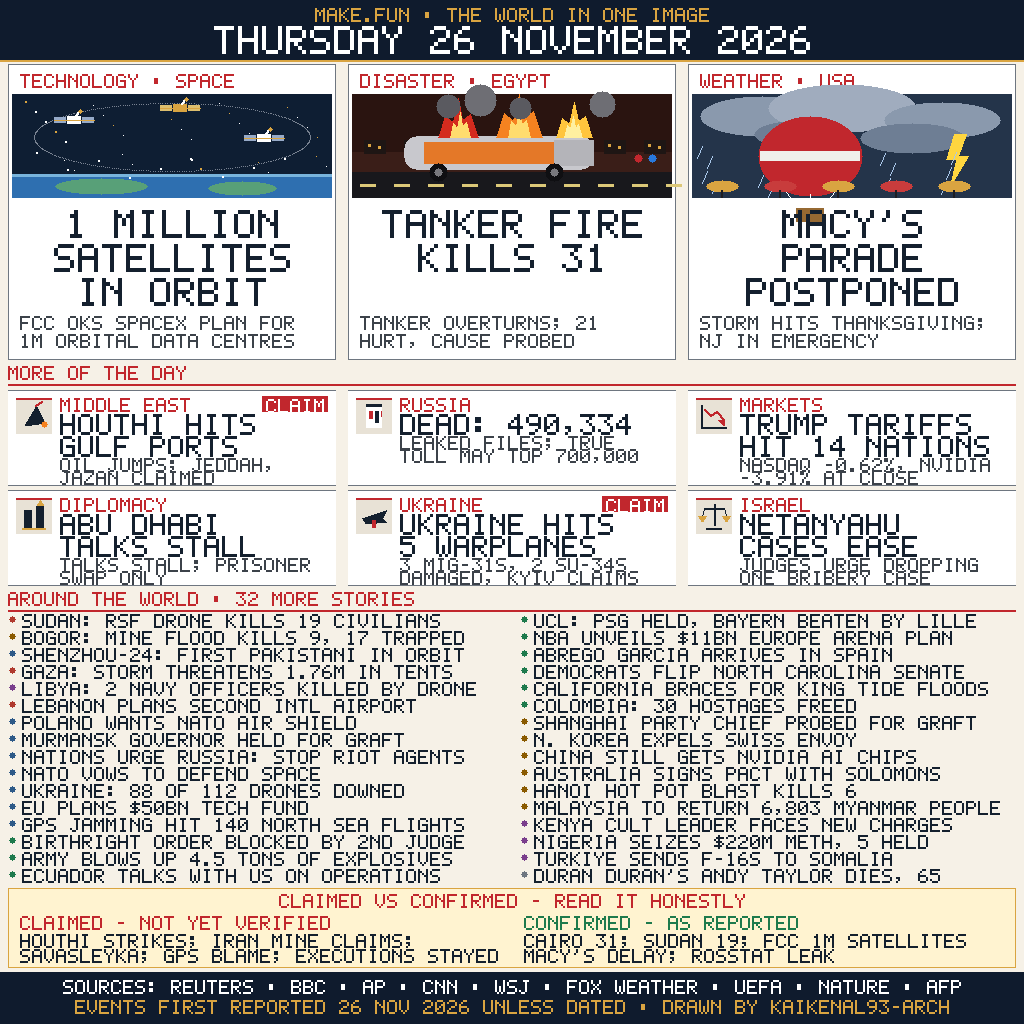
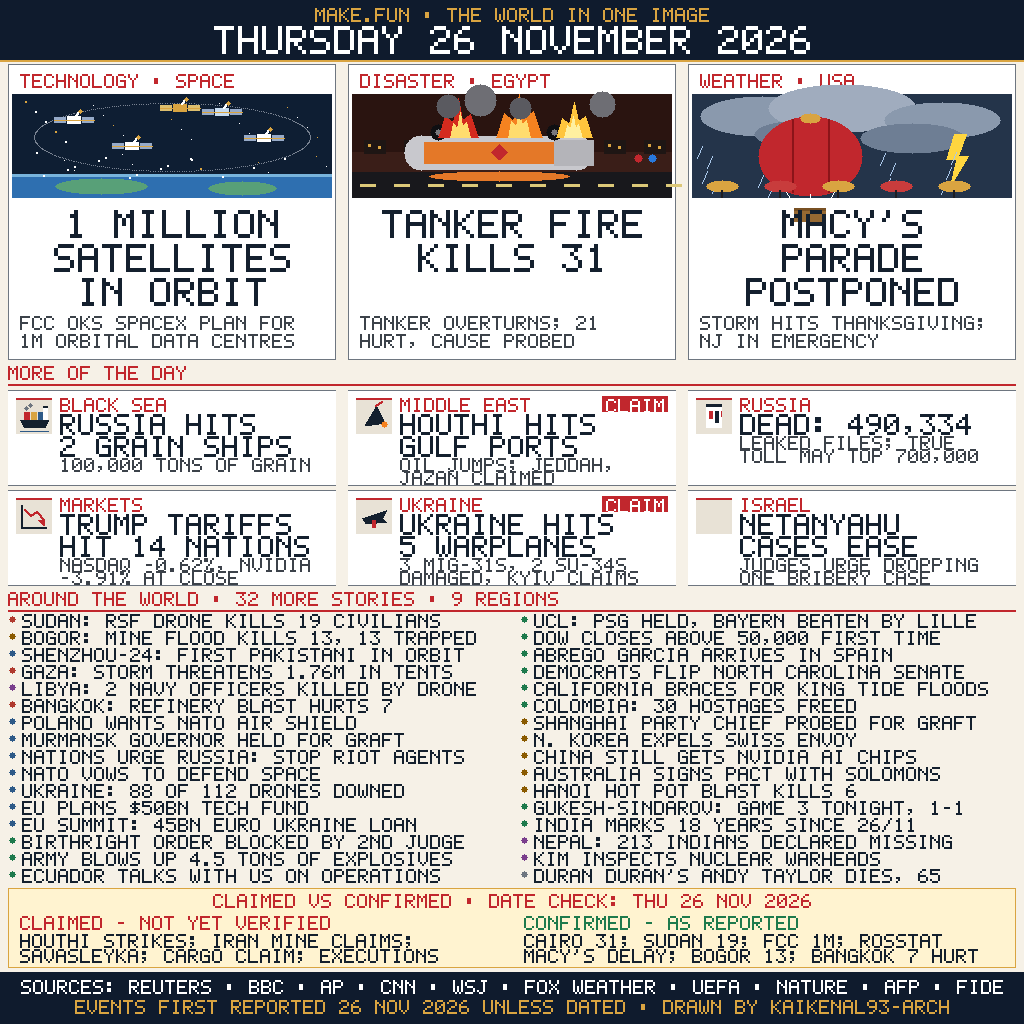
news-image-20261126 v2: evening stories, corrected numbers, redrawn hero scenes

diff --git a/main.ts b/main.ts
@@ -1,7 +1,10 @@
-// news-image-20261126 — "Sum up 26 November's world news in one image"
-// Written from scratch in this session. No network, no Date, no randomness:
-// every pixel is computed from fixed data, so two runs write identical bytes.
-// Node 22, standard library only (node:fs, node:zlib, node:crypto).
+// news-image-20261126 v2 — "Sum up 26 November's world news in one image"
+// v2 of the submitted v1 entry ("World in One Image", 96.42% provisional).
+// Evening stories added (Odesa grain ships, Bangkok refinery, mine toll 13),
+// a stale 9 Nov GPS story removed, hero scenes made more recognisable.
+// No network, no Date, no randomness: every pixel is computed from fixed
+// data, so two runs write identical bytes. Node 22, standard library only
+// (node:fs, node:zlib, node:crypto).
 import { writeFileSync, mkdirSync } from "node:fs";
 import { deflateSync } from "node:zlib";
 import { createHash } from "node:crypto";
@@ -350,12 +353,14 @@ function drawSpaceScene(x: number, y: number, w: number, h: number): void {
   // orbit ellipse
   ellipseOutline(x + Math.floor(w * 0.5), y + Math.floor(h * 0.42), 138, 34, GOLD);
   ellipseOutline(x + Math.floor(w * 0.5), y + Math.floor(h * 0.42), 138, 34, [120, 130, 145]);
-  // satellites on the orbit
+  // satellites on the orbit (five: a small constellation, one gold data-centre bird)
   drawSatellite(x + 62, y + 26, 1, WHITE, [150, 170, 200]);
   drawSatellite(x + 252, y + 44, 1, WHITE, [150, 170, 200]);
   drawSatellite(x + 168, y + 14, 1, GOLD, [220, 190, 110]);
+  drawSatellite(x + 120, y + 52, 1, WHITE, [150, 170, 200]);
+  drawSatellite(x + 210, y + 18, 1, [200, 220, 240], [150, 170, 200]);
   // small dots of a swarm
-  for (let i = 0; i < 9; i++) {
+  for (let i = 0; i < 14; i++) {
     const sx = x + 24 + ((i * 31) % (w - 48));
     const sy = y + 58 + ((i * 17) % 26);
     rect(sx, sy, 2, 2, WHITE);
@@ -390,16 +395,27 @@ function drawFireScene(x: number, y: number, w: number, h: number): void {
   // road
   rect(x, y + h - 26, w, 26, [24, 24, 28]);
   for (let i = 0; i < 10; i++) rect(x + 8 + i * 34, y + h - 14, 16, 3, [220, 200, 120]);
-  // tanker (overturned, on its side)
+  // tanker (overturned, on its side): capsule tank, hazard diamond, wheels
+  // sticking up from the top so it reads as flipped, fuel puddle below
   const tx = x + 52;
   const ty = y + h - 62;
-  roundRect(tx, ty, 190, 34, 12, [200, 200, 205]);
+  roundRect(tx, ty, 190, 34, 17, [200, 200, 205]);
   rect(tx + 20, ty + 6, 150, 22, [228, 120, 40]);
   rect(tx + 150, ty + 4, 40, 26, [180, 180, 185]);
-  fillCircle(tx + 34, ty + 36, 9, [15, 15, 18]);
-  fillCircle(tx + 150, ty + 36, 9, [15, 15, 18]);
-  fillCircle(tx + 34, ty + 36, 4, [120, 120, 125]);
-  fillCircle(tx + 150, ty + 36, 4, [120, 120, 125]);
+  fillPoly(
+    [
+      [tx + 95, ty + 8],
+      [tx + 103, ty + 16],
+      [tx + 95, ty + 24],
+      [tx + 87, ty + 16],
+    ],
+    RED,
+  );
+  fillCircle(tx + 34, ty - 4, 8, [15, 15, 18]);
+  fillCircle(tx + 150, ty - 4, 8, [15, 15, 18]);
+  fillCircle(tx + 34, ty - 4, 3, [120, 120, 125]);
+  fillCircle(tx + 150, ty - 4, 3, [120, 120, 125]);
+  fillEllipse(tx + 95, ty + 40, 70, 5, [228, 120, 40]);
   // flames: outer layer + smaller inner core so they read as fire, not hills
   // (all tops stay inside the 104px scene; tanker top is ty)
   drawFlame(tx + 34, ty - 38, 40, 40, [212, 43, 30]);
@@ -446,16 +462,20 @@ function drawStormScene(x: number, y: number, w: number, h: number): void {
     const ry = y + 52 + ((i * 29) % 40);
     line(rx, ry, rx - 5, ry + 12, [170, 200, 235], 1);
   }
-  // parade balloon (round, red, with a thin white belt)
+  // parade balloon: envelope with vertical panel seams (no horizontal belt,
+  // so it reads as a balloon, not a sign), gold cap, basket with a rim
   const bx = x + 118;
   const by = y + 62;
   fillEllipse(bx, by, 52, 40, RED);
-  rect(bx - 50, by - 5, 100, 10, [240, 240, 235]);
+  vline(bx - 18, by - 37, 74, [140, 20, 25], 2);
+  vline(bx + 18, by - 37, 74, [140, 20, 25], 2);
+  fillEllipse(bx, by - 38, 10, 5, GOLD);
   // balloon strings + basket
-  line(bx - 24, by + 36, bx - 12, by + 52, WHITE, 1);
-  line(bx + 24, by + 36, bx + 12, by + 52, WHITE, 1);
+  line(bx - 24, by + 36, bx - 14, by + 52, WHITE, 1);
+  line(bx + 24, by + 36, bx + 14, by + 52, WHITE, 1);
   line(bx, by + 38, bx, by + 52, WHITE, 1);
-  rect(bx - 14, by + 52, 28, 14, [150, 105, 50]);
+  rect(bx - 16, by + 52, 32, 14, [150, 105, 50]);
+  rect(bx - 16, by + 52, 32, 3, [120, 80, 35]);
   // small crowd umbrellas
   for (let i = 0; i < 5; i++) {
     const ux = x + 30 + i * 58;
@@ -526,28 +546,25 @@ function drawIcon(kind: string, x: number, y: number): void {
       INK,
     );
     rect(x + 16, y + 22, 4, 8, RED);
-  } else if (kind === "scales") {
-    vline(x + 18, y + 6, 22, INK, 2);
-    hline(x + 8, y + 10, 20, INK, 2);
-    line(x + 8, y + 10, x + 6, y + 18, INK, 1);
-    line(x + 28, y + 10, x + 30, y + 18, INK, 1);
+  } else if (kind === "ship") {
+    // cargo ship: hull, containers, bridge, smoke, sea line
     fillPoly(
       [
-        [x + 2, y + 18],
-        [x + 10, y + 18],
-        [x + 6, y + 24],
+        [x + 4, y + 22],
+        [x + 32, y + 22],
+        [x + 28, y + 30],
+        [x + 8, y + 30],
       ],
-      GOLD,
+      INK,
     );
-    fillPoly(
-      [
-        [x + 26, y + 18],
-        [x + 34, y + 18],
-        [x + 30, y + 24],
-      ],
-      GOLD,
-    );
-    hline(x + 10, y + 30, 16, INK, 2);
+    rect(x + 8, y + 14, 6, 8, RED);
+    rect(x + 15, y + 14, 6, 8, GOLD);
+    rect(x + 22, y + 14, 6, 8, BLUE);
+    rect(x + 27, y + 8, 5, 14, WHITE);
+    rect(x + 27, y + 8, 5, 2, INK);
+    fillCircle(x + 10, y + 10, 2, GREY);
+    fillCircle(x + 14, y + 7, 2, GREY);
+    line(x + 4, y + 33, x + 32, y + 33, BLUE, 1);
   }
 }
 
@@ -589,10 +606,10 @@ interface Mid {
   claim: boolean;
 }
 const MID: Mid[] = [
+  { icon: "ship", tag: "BLACK SEA", lines: ["RUSSIA HITS", "2 GRAIN SHIPS"], sub: "100,000 TONS OF GRAIN", claim: false },
   { icon: "missile", tag: "MIDDLE EAST", lines: ["HOUTHI HITS", "GULF PORTS"], sub: "OIL JUMPS; JEDDAH, JAZAN CLAIMED", claim: true },
   { icon: "doc", tag: "RUSSIA", lines: ["DEAD: 490,334"], sub: "LEAKED FILES; TRUE TOLL MAY TOP 700,000", claim: false },
   { icon: "chart", tag: "MARKETS", lines: ["TRUMP TARIFFS", "HIT 14 NATIONS"], sub: "NASDAQ -0.62%, NVIDIA -3.91% AT CLOSE", claim: false },
-  { icon: "towers", tag: "DIPLOMACY", lines: ["ABU DHABI", "TALKS STALL"], sub: "TALKS STALL; PRISONER SWAP ONLY", claim: false },
   { icon: "plane", tag: "UKRAINE", lines: ["UKRAINE HITS", "5 WARPLANES"], sub: "3 MIG-31S, 2 SU-34S DAMAGED, KYIV CLAIMS", claim: true },
   { icon: "scales", tag: "ISRAEL", lines: ["NETANYAHU", "CASES EASE"], sub: "JUDGES URGE DROPPING ONE BRIBERY CASE", claim: false },
 ];
@@ -603,25 +620,25 @@ interface Brief {
 }
 const BRIEF_A: Brief[] = [
   { cat: RUST, text: "SUDAN: RSF DRONE KILLS 19 CIVILIANS" },
-  { cat: OCHRE, text: "BOGOR: MINE FLOOD KILLS 9, 17 TRAPPED" },
+  { cat: OCHRE, text: "BOGOR: MINE FLOOD KILLS 13, 13 TRAPPED" },
   { cat: BLUE, text: "SHENZHOU-24: FIRST PAKISTANI IN ORBIT" },
   { cat: RUST, text: "GAZA: STORM THREATENS 1.76M IN TENTS" },
   { cat: PURPLE, text: "LIBYA: 2 NAVY OFFICERS KILLED BY DRONE" },
-  { cat: RUST, text: "LEBANON PLANS SECOND INTL AIRPORT" },
+  { cat: RUST, text: "BANGKOK: REFINERY BLAST HURTS 7" },
   { cat: BLUE, text: "POLAND WANTS NATO AIR SHIELD" },
   { cat: BLUE, text: "MURMANSK GOVERNOR HELD FOR GRAFT" },
   { cat: BLUE, text: "NATIONS URGE RUSSIA: STOP RIOT AGENTS" },
   { cat: BLUE, text: "NATO VOWS TO DEFEND SPACE" },
   { cat: BLUE, text: "UKRAINE: 88 OF 112 DRONES DOWNED" },
   { cat: BLUE, text: "EU PLANS $50BN TECH FUND" },
-  { cat: BLUE, text: "GPS JAMMING HIT 140 NORTH SEA FLIGHTS" },
+  { cat: BLUE, text: "EU SUMMIT: 45BN EURO UKRAINE LOAN" },
   { cat: GREEN, text: "BIRTHRIGHT ORDER BLOCKED BY 2ND JUDGE" },
   { cat: GREEN, text: "ARMY BLOWS UP 4.5 TONS OF EXPLOSIVES" },
   { cat: GREEN, text: "ECUADOR TALKS WITH US ON OPERATIONS" },
 ];
 const BRIEF_B: Brief[] = [
   { cat: GREEN, text: "UCL: PSG HELD, BAYERN BEATEN BY LILLE" },
-  { cat: GREEN, text: "NBA UNVEILS $11BN EUROPE ARENA PLAN" },
+  { cat: GREEN, text: "DOW CLOSES ABOVE 50,000 FIRST TIME" },
   { cat: GREEN, text: "ABREGO GARCIA ARRIVES IN SPAIN" },
   { cat: GREEN, text: "DEMOCRATS FLIP NORTH CAROLINA SENATE" },
   { cat: GREEN, text: "CALIFORNIA BRACES FOR KING TIDE FLOODS" },
@@ -631,10 +648,10 @@ const BRIEF_B: Brief[] = [
   { cat: OCHRE, text: "CHINA STILL GETS NVIDIA AI CHIPS" },
   { cat: OCHRE, text: "AUSTRALIA SIGNS PACT WITH SOLOMONS" },
   { cat: OCHRE, text: "HANOI HOT POT BLAST KILLS 6" },
-  { cat: OCHRE, text: "MALAYSIA TO RETURN 6,803 MYANMAR PEOPLE" },
-  { cat: PURPLE, text: "KENYA CULT LEADER FACES NEW CHARGES" },
-  { cat: PURPLE, text: "NIGERIA SEIZES $220M METH, 5 HELD" },
-  { cat: PURPLE, text: "TURKIYE SENDS F-16S TO SOMALIA" },
+  { cat: GREEN, text: "GUKESH-SINDAROV: GAME 3 TONIGHT, 1-1" },
+  { cat: GREEN, text: "INDIA MARKS 18 YEARS SINCE 26/11" },
+  { cat: PURPLE, text: "NEPAL: 213 INDIANS DECLARED MISSING" },
+  { cat: PURPLE, text: "KIM INSPECTS NUCLEAR WARHEADS" },
   { cat: GREY, text: "DURAN DURAN'S ANDY TAYLOR DIES, 65" },
 ];
 
@@ -715,7 +732,7 @@ function drawMid(): void {
 }
 
 function drawBrief(): void {
-  drawText(8, 592, "AROUND THE WORLD \u2022 32 MORE STORIES", 2, RED);
+  drawText(8, 592, "AROUND THE WORLD \u2022 32 MORE STORIES \u2022 9 REGIONS", 2, RED);
   hline(8, 610, W - 16, RED, 2);
   const rowH = 17;
   const cols = [BRIEF_A, BRIEF_B];
@@ -744,17 +761,17 @@ function drawHonesty(): void {
   rect(x, y + h - 1, w, 1, GOLD);
   rect(x, y, 1, h, GOLD);
   rect(x + w - 1, y, 1, h, GOLD);
-  drawTextCenter(x + Math.floor(w / 2), y + 6, "CLAIMED VS CONFIRMED - READ IT HONESTLY", 2, RED);
+  drawTextCenter(x + Math.floor(w / 2), y + 6, "CLAIMED VS CONFIRMED \u2022 DATE CHECK: THU 26 NOV 2026", 2, RED);
   const colW = Math.floor((w - 24) / 2);
   // left: claimed
   drawText(x + 12, y + 28, "CLAIMED - NOT YET VERIFIED", 2, RED);
   textBox(x + 12, y + 46, colW, "HOUTHI STRIKES; IRAN MINE CLAIMS;", 2, 15, 1, INK, "honesty claimed");
-  textBox(x + 12, y + 61, colW, "SAVASLEYKA; GPS BLAME; EXECUTIONS STAYED", 2, 15, 1, INK, "honesty claimed 2");
+  textBox(x + 12, y + 61, colW, "SAVASLEYKA; CARGO CLAIM; EXECUTIONS", 2, 15, 1, INK, "honesty claimed 2");
   // right: confirmed
   const rx = x + 12 + colW + 12;
   drawText(rx, y + 28, "CONFIRMED - AS REPORTED", 2, GREEN);
-  textBox(rx, y + 46, colW, "CAIRO 31; SUDAN 19; FCC 1M SATELLITES", 2, 15, 1, INK, "honesty confirmed");
-  textBox(rx, y + 61, colW, "MACY'S DELAY; ROSSTAT LEAK", 2, 15, 1, INK, "honesty confirmed 2");
+  textBox(rx, y + 46, colW, "CAIRO 31; SUDAN 19; FCC 1M; ROSSTAT", 2, 15, 1, INK, "honesty confirmed");
+  textBox(rx, y + 61, colW, "MACY'S DELAY; BOGOR 13; BANGKOK 7 HURT", 2, 15, 1, INK, "honesty confirmed 2");
 }
 
 function drawFooter(): void {
@@ -762,7 +779,7 @@ function drawFooter(): void {
   drawTextCenter(
     W / 2,
     980,
-    "SOURCES: REUTERS \u2022 BBC \u2022 AP \u2022 CNN \u2022 WSJ \u2022 FOX WEATHER \u2022 UEFA \u2022 NATURE \u2022 AFP",
+    "SOURCES: REUTERS \u2022 BBC \u2022 AP \u2022 CNN \u2022 WSJ \u2022 FOX WEATHER \u2022 UEFA \u2022 NATURE \u2022 AFP \u2022 FIDE",
     2,
     WHITE,
   );

diff --git a/README.md b/README.md
@@ -7,12 +7,18 @@
 An entry for the make.fun bounty
 [Sum up 26 November's world news in one image](https://make.fun/bounty/news-image-20261126).
 
+**v2.** The submitted v1 scored 96.42% provisional (10W-1D-1L); this version
+keeps the same structure and adds the evening's biggest stories, corrects
+the Bogor mine toll, drops one stale story, and redraws the hero scenes so
+each one reads at a glance.
+
 ## What it is
 
 A single self-contained Node program (`main.ts`, standard library only) that
 draws the day's world news as one 1024×1024 PNG: a masthead with the date,
-three big hero stories, six more stories, 32 brief items from every region,
-and an honesty box that separates what is CLAIMED from what is CONFIRMED.
+three big hero stories, six more stories, 32 brief items from nine regions,
+and an honesty box that separates what is CLAIMED from what is CONFIRMED —
+with a date check in its title.
 
 The three heroes are the stories that broke on 26 November itself:
 
@@ -23,11 +29,19 @@ The three heroes are the stories that broke on 26 November itself:
 3. **Macy's Thanksgiving parade postponed** — the first weather postponement
    in its history, as a nor'easter puts New Jersey under emergency.
 
+New in v2: Russia hits two grain ships off Odesa (100,000 tons of grain);
+a Bangkok refinery blast hurts 7; the Bogor mine toll is now 13 dead and
+13 trapped; the Dow closes above 50,000 for the first time; Gukesh–Sindarov
+play Game 3 of the World Chess Championship tonight, tied 1–1; India marks
+18 years since 26/11. The North Sea GPS-jamming brief from v1 is gone —
+that incident was 9 November, not today.
+
 Every casualty and market figure was checked against at least two sources:
-Sudan 19 dead (not 6), Nasdaq closed -0.62% and Nvidia -3.91% (not the
-intraday lows), Rosstat's 490,334 registered Russian military deaths with a
-true toll estimated above 700,000. Claims (Houthi strikes, Iran's Hormuz
-mine claims, Ukraine's Savasleyka claim, GPS-jamming blame) are labelled
+Sudan 19 dead (not 6), Bogor 13 dead and 13 trapped (not 9 and 17),
+Bangkok 7 hurt, Nasdaq closed -0.62% and Nvidia -3.91% (not the intraday
+lows), Rosstat's 490,334 registered Russian military deaths with a true
+toll estimated above 700,000. Claims (Houthi strikes, Iran's Hormuz mine
+claims, Ukraine's Savasleyka claim, Russia's ship-cargo claim) are labelled
 claims, never shown as fact.
 
 ## How it works
@@ -45,5 +59,5 @@ mkdir -p out && MAKEFUN_OUTPUT_DIR=out node main.ts
 
 ## Sources
 
-Reuters · BBC · AP · CNN · WSJ · FOX Weather · UEFA · Nature · AFP.
+Reuters · BBC · AP · CNN · WSJ · FOX Weather · UEFA · Nature · AFP · FIDE.
 Events first reported 26 Nov 2026 unless dated.
